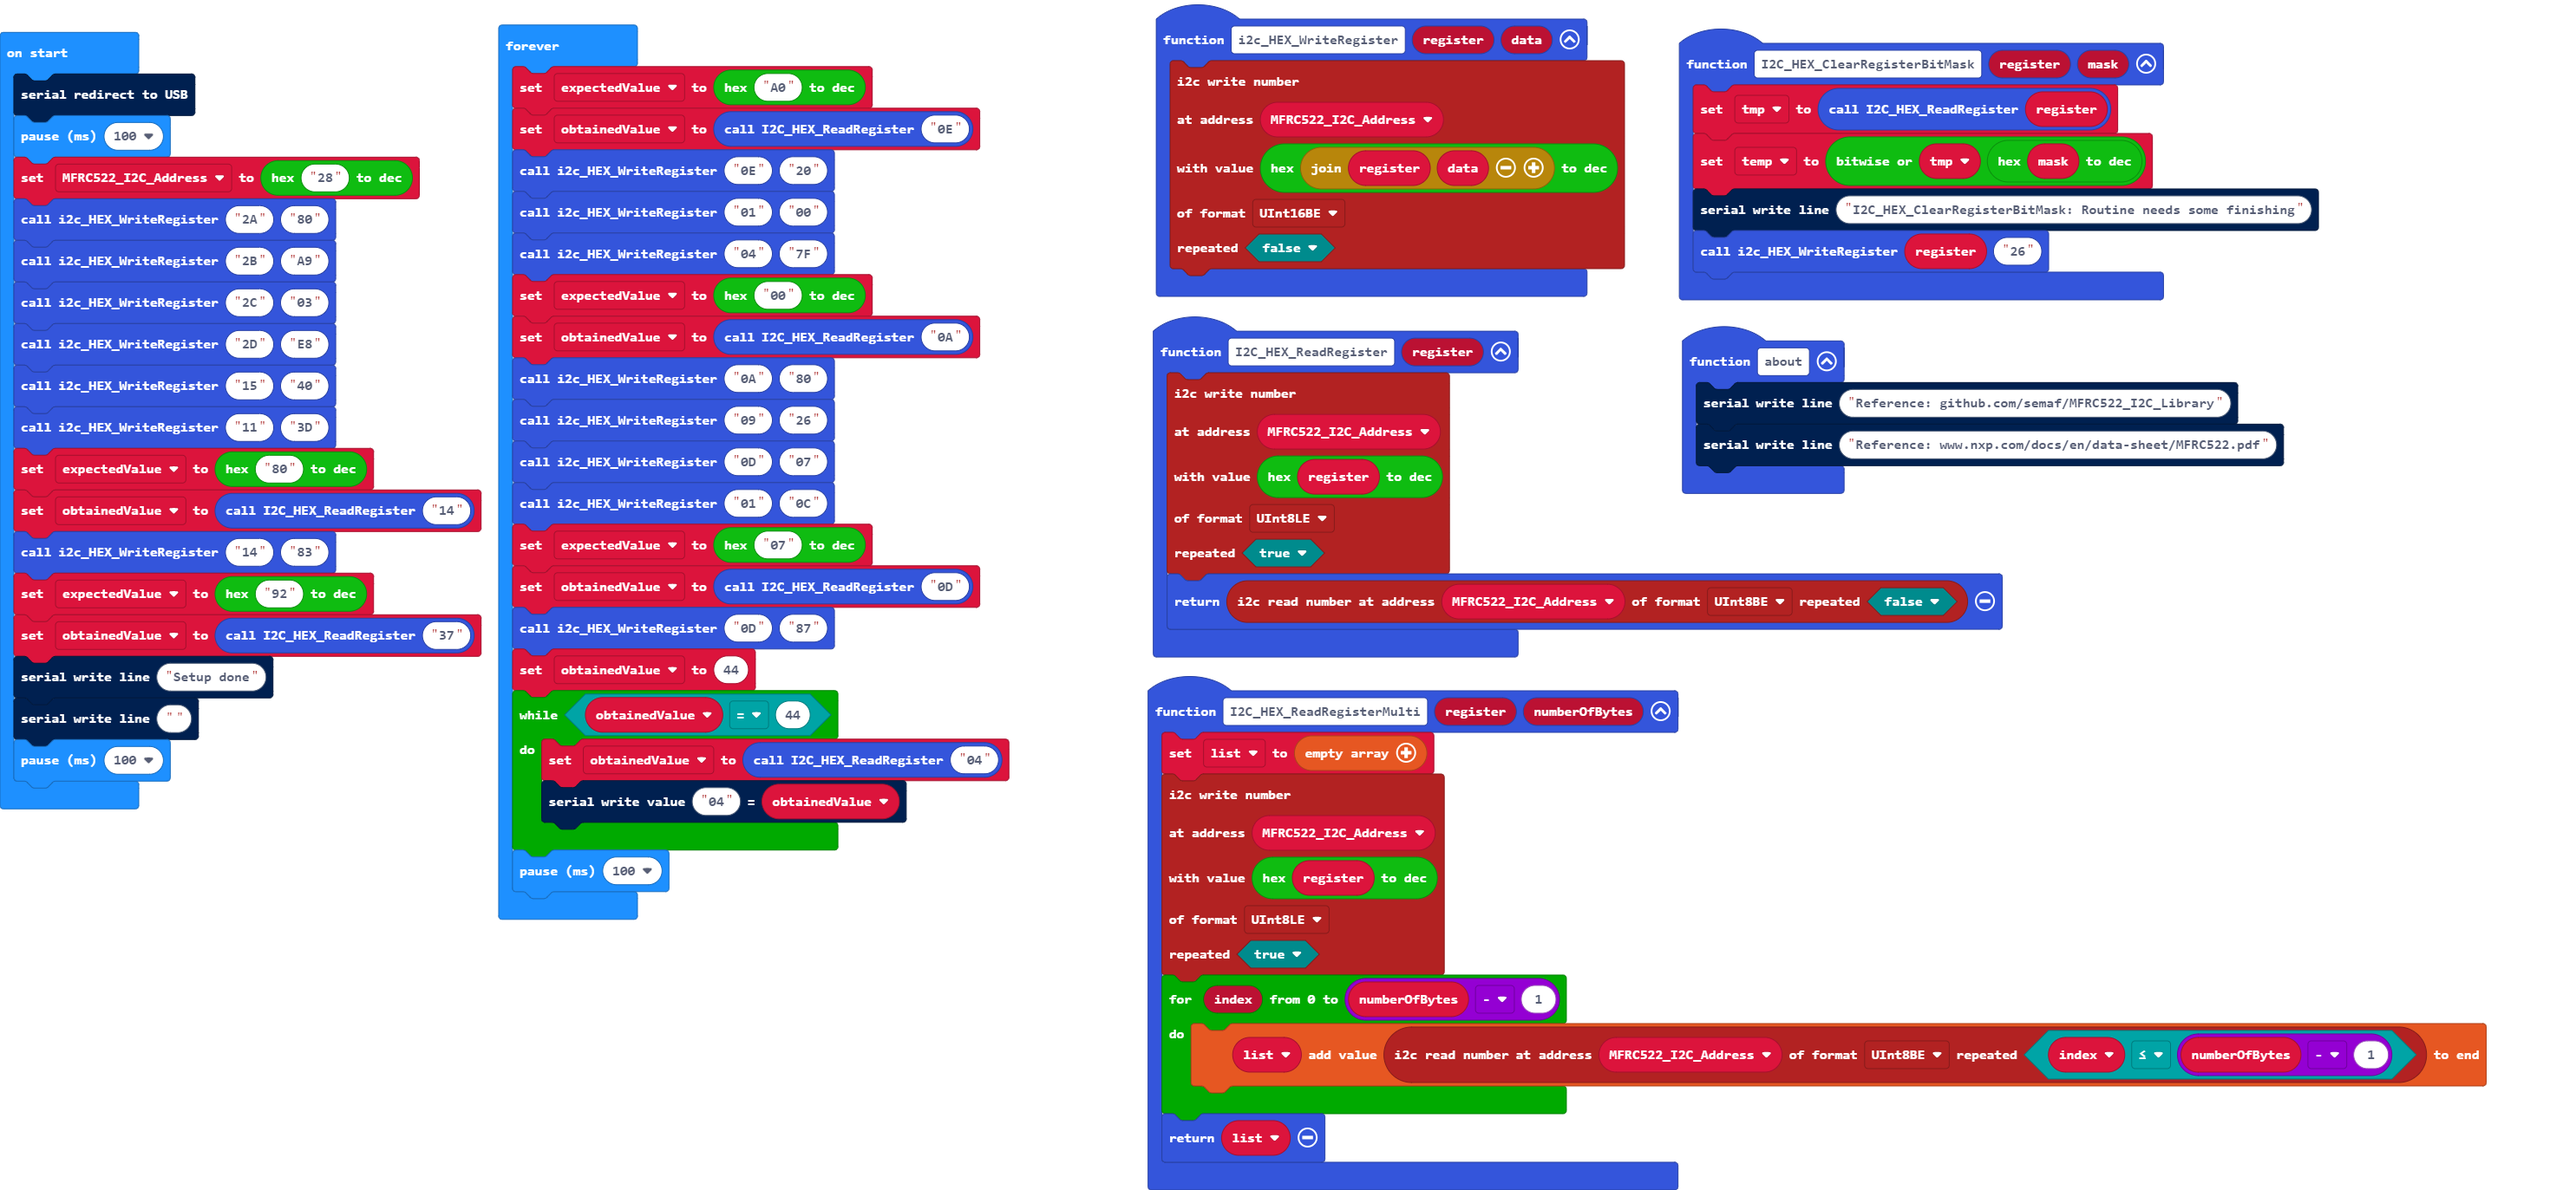
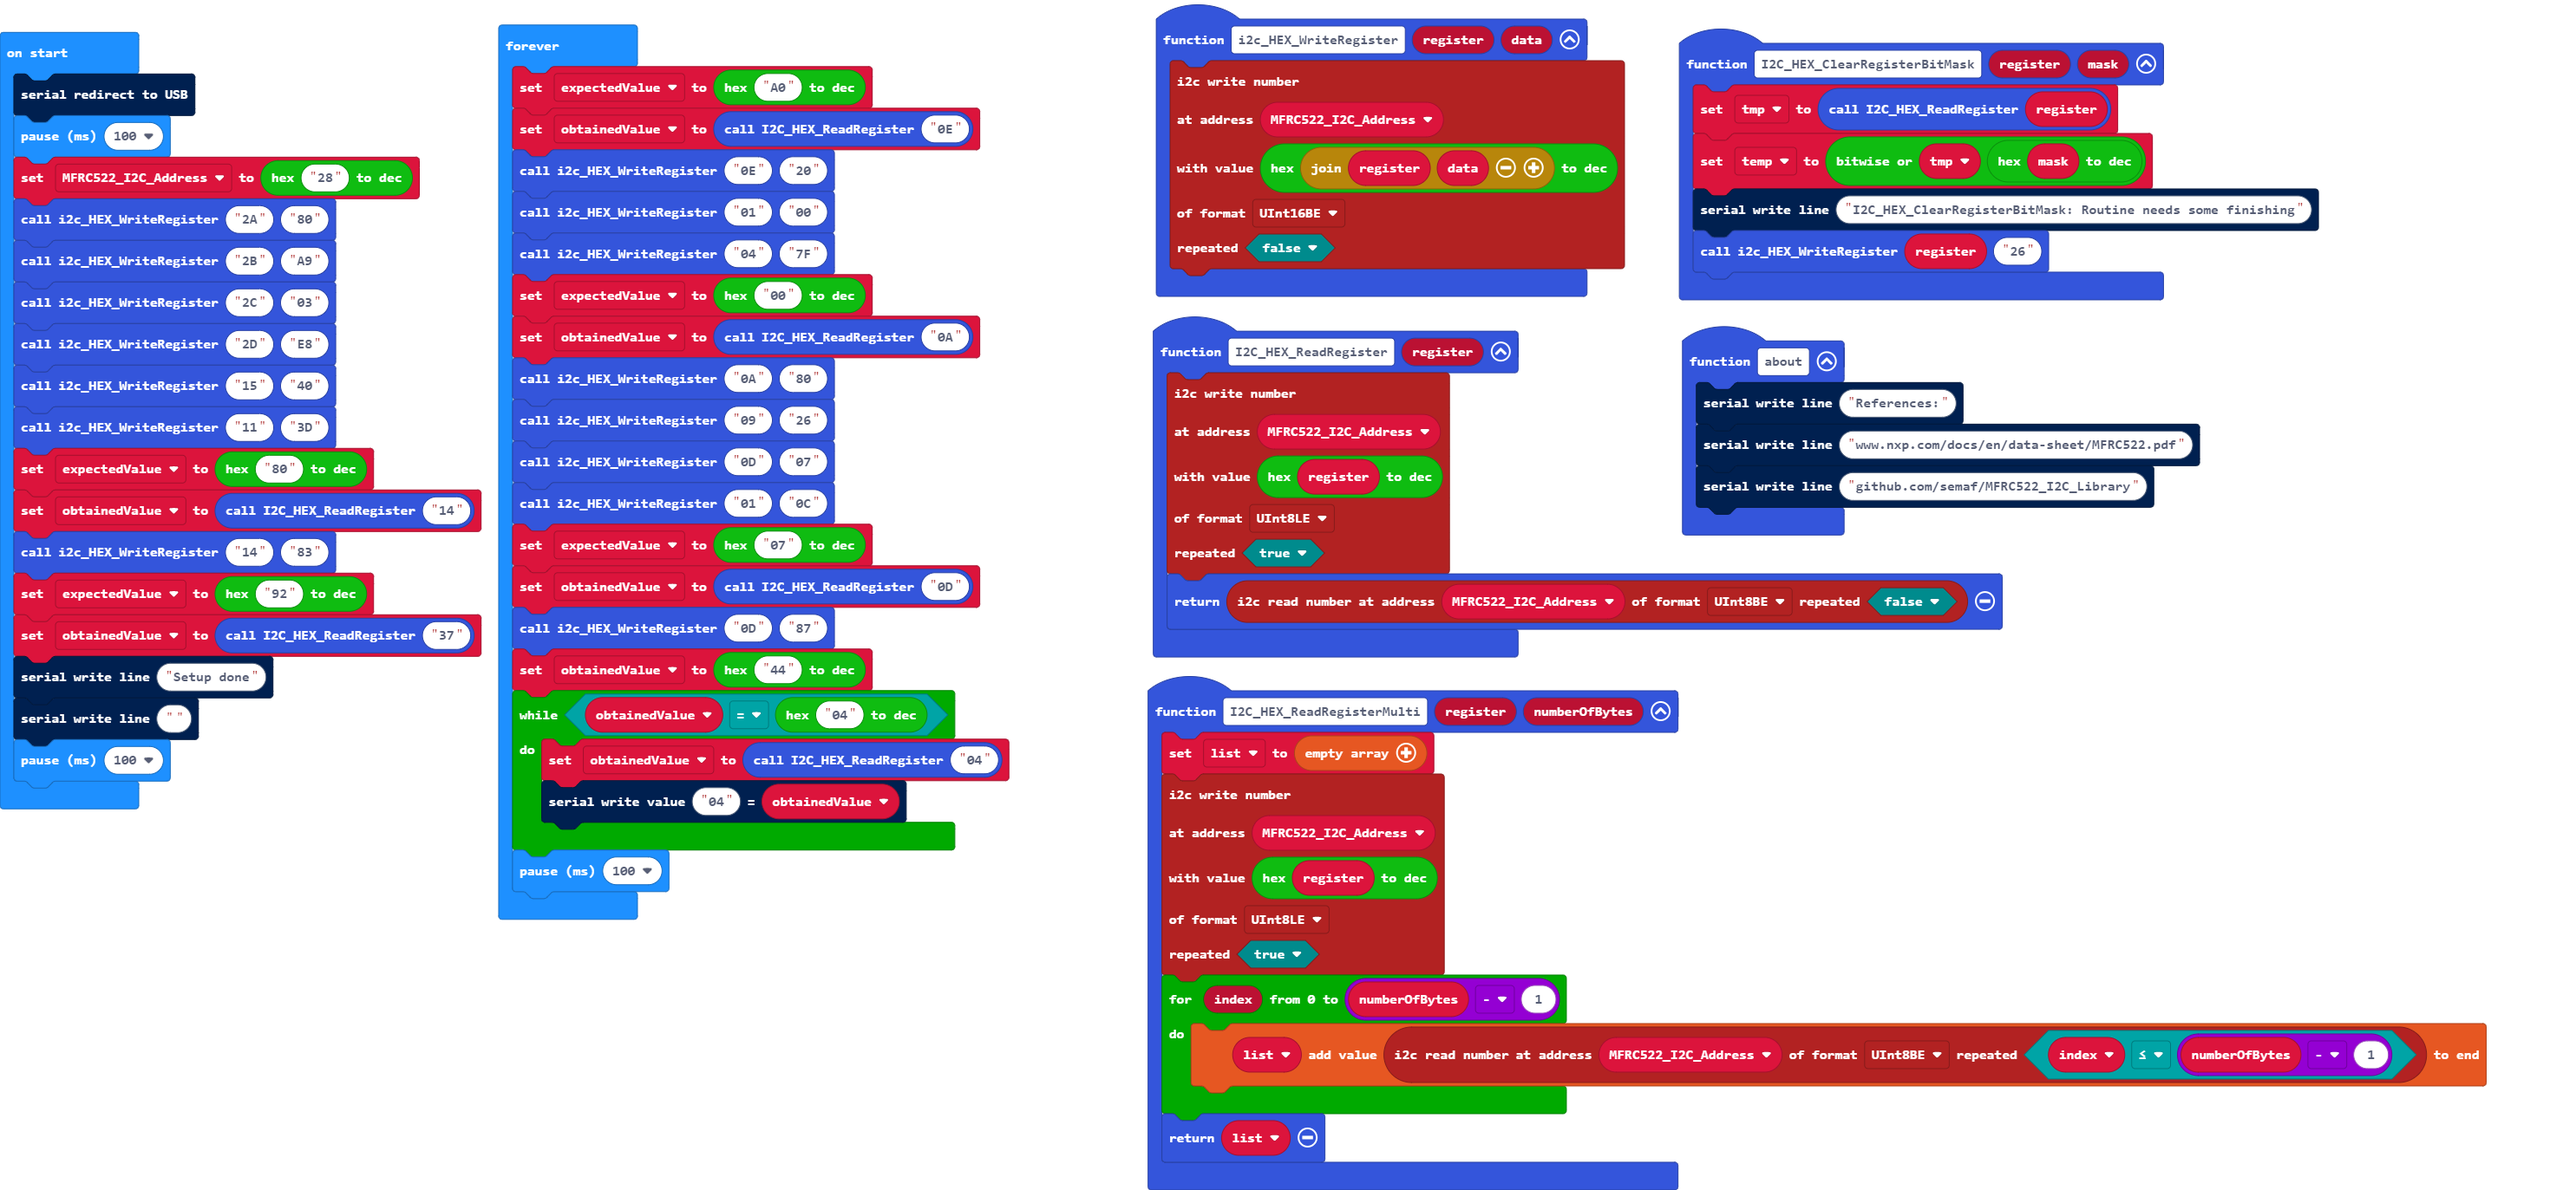
Realized workload too big

Changed region(s): [[0.6505, 0.3059, 0.8983, 0.4588], [0.2788, 0.52, 0.3717, 0.6424], [0.3098, 0.673, 0.3717, 0.7342]]

diff --git a/main.ts b/main.ts
@@ -7,8 +7,9 @@ function i2c_HEX_WriteRegister (register: string, data: string) {
     )
 }
 function about () {
-    serial.writeLine("Reference: github.com/semaf/MFRC522_I2C_Library")
-    serial.writeLine("Reference: www.nxp.com/docs/en/data-sheet/MFRC522.pdf")
+    serial.writeLine("References:")
+    serial.writeLine("www.nxp.com/docs/en/data-sheet/MFRC522.pdf")
+    serial.writeLine("github.com/semaf/MFRC522_I2C_Library")
 }
 function I2C_HEX_ReadRegisterMulti (register: string, numberOfBytes: number) {
     list = []
@@ -74,8 +75,8 @@ basic.forever(function () {
     expectedValue = custom.fn_HextoDec("07")
     obtainedValue = I2C_HEX_ReadRegister("0D")
     i2c_HEX_WriteRegister("0D", "87")
-    obtainedValue = 44
-    while (obtainedValue == 44) {
+    obtainedValue = custom.fn_HextoDec("44")
+    while (obtainedValue == custom.fn_HextoDec("04")) {
         obtainedValue = I2C_HEX_ReadRegister("04")
         serial.writeValue("04", obtainedValue)
     }
